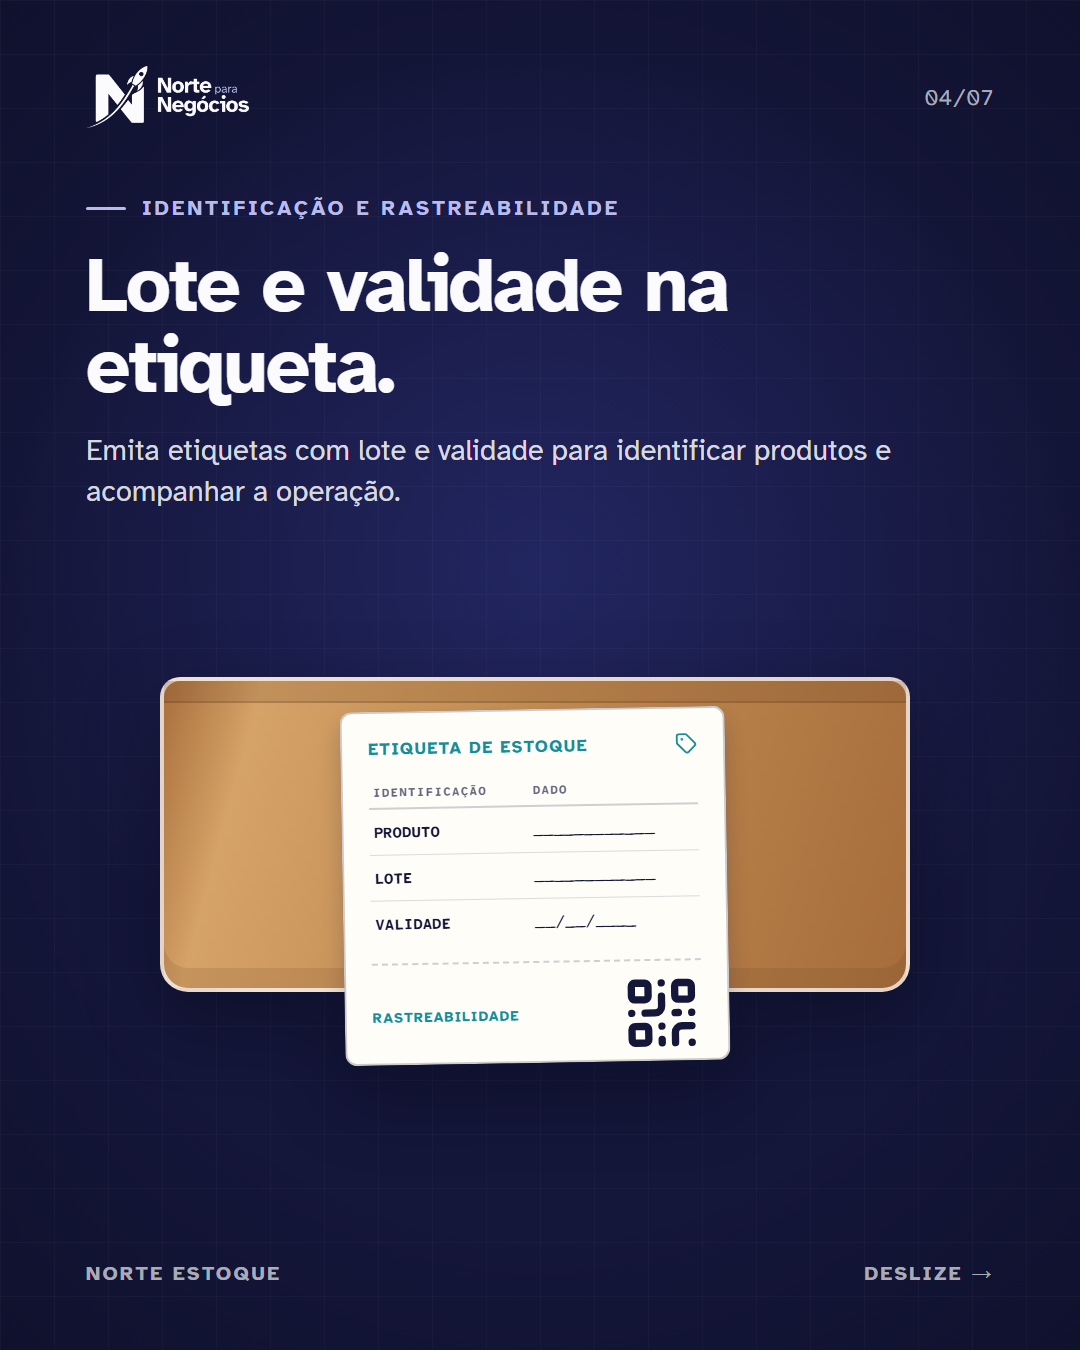
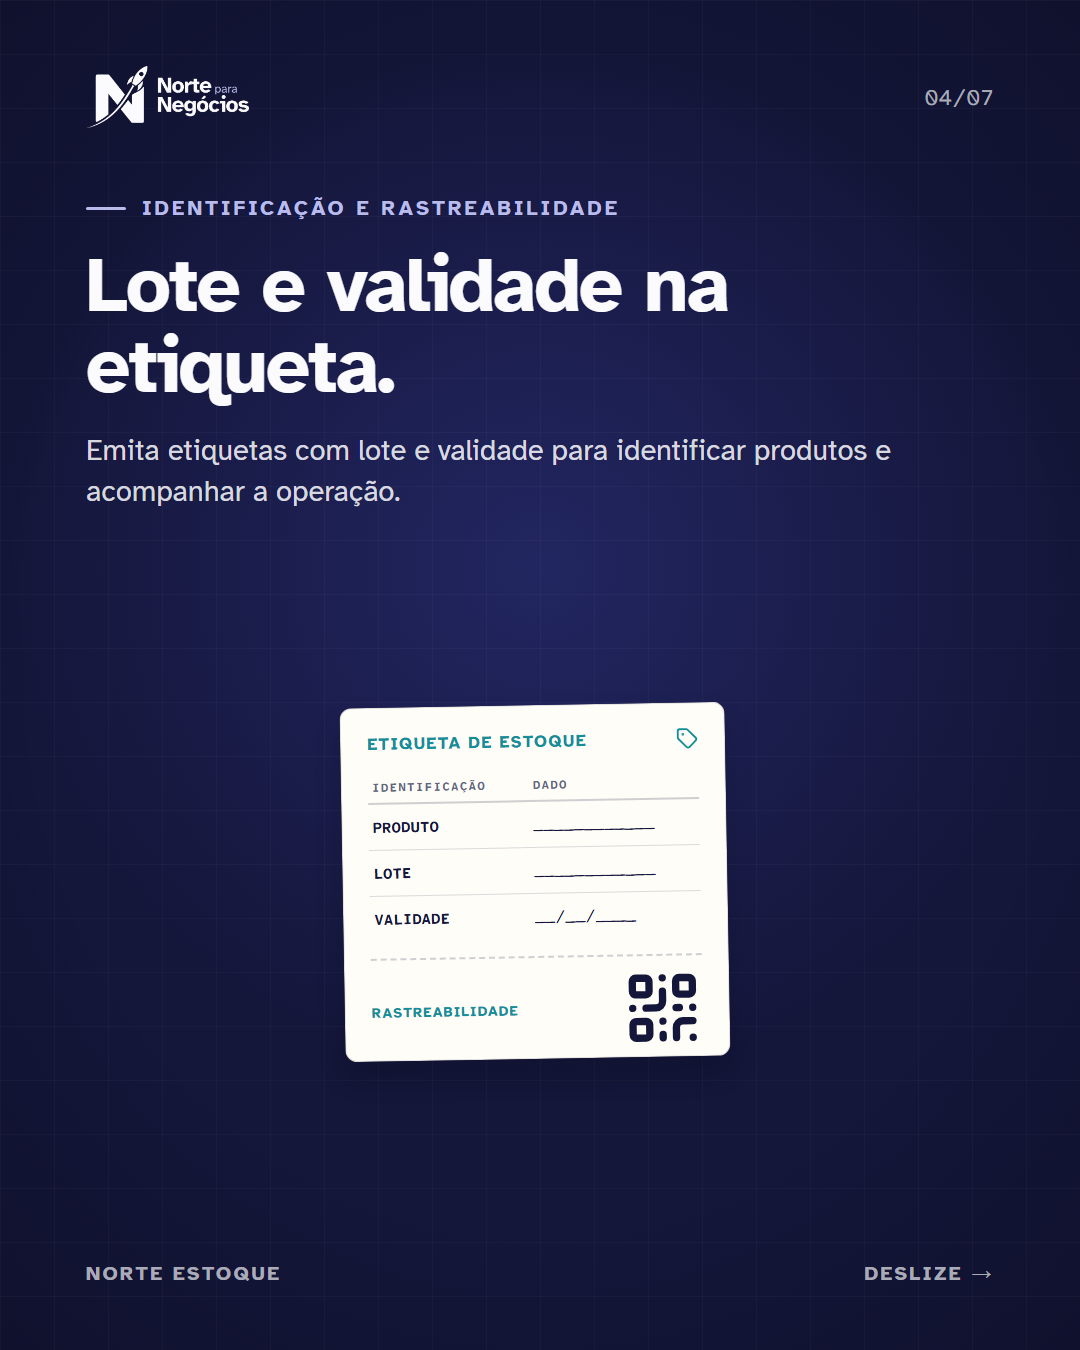
Remove illustration backing from inventory label

Changed region(s): [[0.1222, 0.4978, 0.8556, 0.7467], [0.3361, 0.7156, 0.6722, 0.8089]]

diff --git a/src/templates/NorteEstoqueCarousel.tsx b/src/templates/NorteEstoqueCarousel.tsx
@@ -212,10 +212,8 @@ const EtiquetaScene: React.FC = () => {
         <Support tone="dark" top={430} width={850} size={29}>
           Emita etiquetas com lote e validade para identificar produtos e acompanhar a operação.
         </Support>
-        <div data-illustration="lot-expiry-label" style={{position: 'absolute', left: 145, top: 565, width: 780, height: 505, filter: 'drop-shadow(0 25px 36px rgba(0,0,0,.28))'}}>
-          <div data-package="kraft-stock-box" style={{position: 'absolute', left: 15, right: 15, top: 112, height: 315, borderRadius: '20px 20px 28px 28px', background: 'linear-gradient(105deg,#A96F3D 0%,#D5A267 12%,#C18A50 48%,#A66D3C 100%)', border: '4px solid rgba(251,251,254,.72)', boxShadow: 'inset 0 -20px 0 rgba(92,51,25,.13)'}}>
-            <div style={{position: 'absolute', left: 0, right: 0, top: 0, height: 22, background: 'rgba(91,53,28,.16)', borderBottom: '2px solid rgba(91,53,28,.22)'}} />
-            <div style={{position: 'absolute', left: '50%', top: 28, width: 385, height: 354, padding: '24px 26px', boxSizing: 'border-box', transform: 'translateX(-50%) rotate(-1deg)', borderRadius: 12, background: '#FFFDF7', border: '2px solid rgba(20,22,58,.22)', boxShadow: '0 14px 22px rgba(20,22,58,.2)'}}>
+        <div data-illustration="lot-expiry-label" style={{position: 'absolute', left: 145, top: 565, width: 780, height: 505}}>
+            <div style={{position: 'absolute', left: '50%', top: 140, width: 385, height: 354, padding: '24px 26px', boxSizing: 'border-box', transform: 'translateX(-50%) rotate(-1deg)', borderRadius: 12, background: '#FFFDF7', border: '1px solid rgba(20,22,58,.14)', boxShadow: '0 16px 28px rgba(0,0,0,.16)'}}>
               <div style={{display: 'flex', justifyContent: 'space-between', alignItems: 'center', fontFamily: SANS, fontWeight: 700, fontSize: 17, letterSpacing: 1.4, color: '#168E9A'}}><span>ETIQUETA DE ESTOQUE</span><Tag size={22} /></div>
               <table style={{width: '100%', marginTop: 18, borderCollapse: 'collapse', fontFamily: MONO, color: NAVY, textAlign: 'left'}}>
                 <thead><tr style={{fontSize: 12, letterSpacing: 1.2, color: '#62677F'}}><th style={{padding: '7px 4px', borderBottom: '2px solid rgba(20,22,58,.2)'}}>IDENTIFICAÇÃO</th><th style={{padding: '7px 4px', borderBottom: '2px solid rgba(20,22,58,.2)'}}>DADO</th></tr></thead>
@@ -230,7 +228,6 @@ const EtiquetaScene: React.FC = () => {
                 <QrCode size={80} color={NAVY} strokeWidth={2.2} />
               </div>
             </div>
-          </div>
         </div>
         <Foot tone="dark" label="Norte Estoque" />
       </AbsoluteFill>
